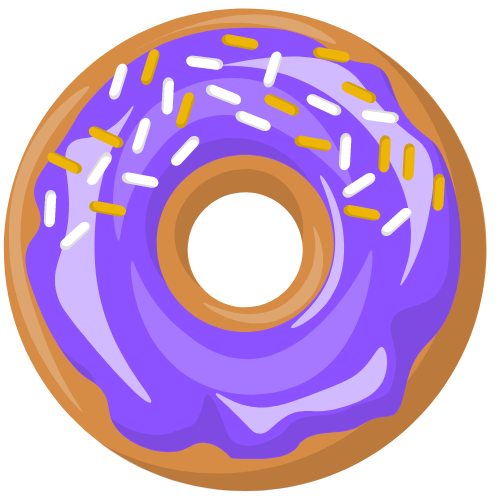
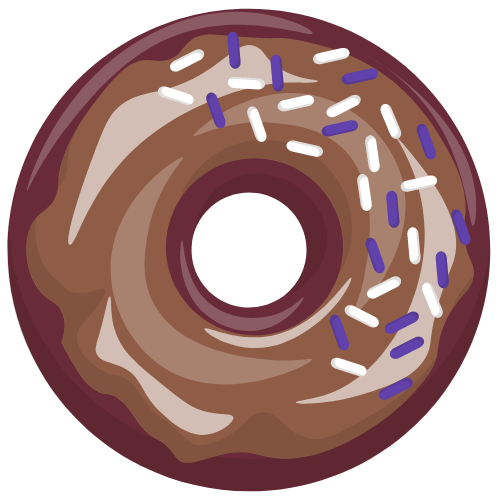
test new color palette

diff --git a/src/components/StampCard.jsx b/src/components/StampCard.jsx
@@ -89,30 +89,30 @@ const StampCard = () => {
     <div className="h-auto p-0 bg-transparent border-none row-1-card no-shadow">
       <div className="flex items-center justify-center w-full">
         <div className="relative w-full p-3 bg-center bg-cover rounded-md shadow-inner" style={{ backgroundImage: `url(/sprinkles-colorful-background.jpeg)` }}>
-          <div className="relative bg-white border-none rounded-md">
-            <h2 className="mt-0 mb-0 text-xl font-bold text-center text-gray-800">My Donuts</h2>
+          <div className="relative bg-white rounded-md">
+            <h2 className="mt-0 mb-0 text-2xl font-bold text-center text-pink">My Donuts</h2>
             <div className="absolute bottom-0 left-0 w-full h-1 bg-gray-200 rounded-b-md"></div>
           </div>
 
           <div className="grid grid-cols-6 grid-rows-2 gap-1 mx-auto mb-2 place-items-center">
             {stampedDonuts.map((iconNumber, index) => (
-              <div key={index} className="flex items-center justify-center m-1 bg-teal-200 rounded-lg shadow-md shadow-lg h-11 w-11 shadow-gray-500/50">
+              <div key={index} className="flex items-center justify-center m-1 rounded-lg shadow-md shadow-lg bg-md-pink h-11 w-11 shadow-gray-500/50">
                 <div className="flex items-center justify-center h-11 w-11">
                   <ColorDonutIcon number={iconNumber} />
                 </div>
               </div>
             ))}
             {emptyDonuts.map((iconNumber, index) => (
-              <div key={index} className="flex items-center justify-center bg-teal-100 rounded-lg shadow-md h-11 w-11">
+              <div key={index} className="flex items-center justify-center rounded-lg shadow-md bg-light-pink h-11 w-11">
                 <OutlineDonutIcon number={iconNumber} />
               </div>
             ))}
           </div>
           
-          <div className="relative mt-2 bg-white border-none rounded-md">
+          <div className="relative mt-2 bg-white rounded-md">
             <div className="absolute bottom-0 left-0 w-full h-1 bg-gray-300 rounded-b-md"></div>
           </div>
-          <p className="pt-2 text-sm italic text-center text-gray-700">Earn a donut for every opensource commit.</p>
+          <p className="pt-2 text-sm italic text-center text-blue">Earn a donut for every opensource commit.</p>
           <p className="p-1 text-xs italic text-center text-orange-600">12 donuts equals a donut box!</p>
         </div>
       </div>

diff --git a/src/components/DonutIcons.jsx b/src/components/DonutIcons.jsx
@@ -1,10 +1,10 @@
 import unstampedDonut from '../assets/donut-icons/outline/donut-unstamped.png';
-import creamDonut from '../assets/donut-icons/color/donut-cream.png';
-import peachDonut from '../assets/donut-icons/color/donut-peach.png';
-import pinkDonut from '../assets/donut-icons/color/donut-pink.png';
+import pinkDonut from '../assets/donut-icons/color/donut-light-pink.png';
+import blueDonut from '../assets/donut-icons/color/donut-blue.png';
+import whiteDonut from '../assets/donut-icons/color/donut-white.png';
+import purple1Donut from '../assets/donut-icons/color/donut-purple1.png';
 import purpleDonut from '../assets/donut-icons/color/donut-purple.png';
-import lightbrownDonut from '../assets/donut-icons/color/donut-lightbrown.png';
-import darkbrownDonut from '../assets/donut-icons/color/donut-darkbrown.png';
+import orangeDonut from '../assets/donut-icons/color/donut-orange.png';
 
 // greyed out donut components
 export const Outline1 = () => <img src={unstampedDonut} alt='outlined donut' />;
@@ -15,9 +15,9 @@ export const Outline5 = () => <img src={unstampedDonut} alt='outlined donut' />;
 export const Outline6 = () => <img src={unstampedDonut} alt='outlined donut' />;
 
 // color donut components
-export const Color1 = () => <img src={creamDonut} alt='color donut' />;
-export const Color2 = () => <img src={peachDonut} alt='color donut' />;
-export const Color3 = () => <img src={pinkDonut} alt='color donut' />;
+export const Color1 = () => <img src={pinkDonut} alt='color donut' />;
+export const Color2 = () => <img src={blueDonut} alt='color donut' />;
+export const Color3 = () => <img src={whiteDonut} alt='color donut' />;
 export const Color4 = () => <img src={purpleDonut} alt='color donut' />;
-export const Color5 = () => <img src={lightbrownDonut} alt='color donut' />;
-export const Color6 = () => <img src={darkbrownDonut} alt='color donut' />;
+export const Color5 = () => <img src={purple1Donut} alt='color donut' />;
+export const Color6 = () => <img src={orangeDonut} alt='color donut' />;

diff --git a/src/components/MyCommits.jsx b/src/components/MyCommits.jsx
@@ -12,24 +12,24 @@ const MyCommits = () => {
   const [error, setError] = useState(null);
 
   return (
-    <div className="mt-0 card-content">
-      <div className="flex items-center justify-between p-2 mt-0">
+    <div className="mt-0 ">
+      <div className="flex items-center justify-between p-2 mt-0 rounded-lg bg-pink">
         <div className="w-48 pb-2 mt-0 mr-2 bg-white rounded-lg h-54">
-          <h3 className="mb-0 text-lg font-bold text-center text-gray-800">Opensource Commits</h3>
+          <h3 className="mb-0 text-lg font-bold text-center text-blue">Opensource Commits</h3>
           <img src={octocatHoldingDonut} alt="Octocat holding donut" className="w-20 h-20 mx-auto mt-1" />
-          <p className="m-1 text-2xl font-bold text-center text-gray-800">{totalCommits}</p>
+          <p className="m-1 text-2xl font-bold text-center text-blue">{totalCommits}</p>
           {loading && <p>Loading contributions...</p>}
           {error && <p>{error}</p>}
-          <p className="px-1 text-xs text-center text-gray-800">
+          <p className="px-1 text-xs text-center text-blue">
             Since joining on _____
           </p>
         </div>
 
         <div className="w-48 bg-white rounded-lg h-54">
-          <h3 className="mt-2 mb-0 text-lg font-bold text-center text-gray-800">Donut Boxes</h3>
+          <h3 className="mt-2 mb-0 text-lg font-bold text-center text-blue">Donut Boxes</h3>
           <img src={donutBoxFull} alt="Donut box full" className="w-20 h-20 mx-auto mt-2" />
-          <p className="px-1 m-1 text-2xl font-bold text-center text-gray-800">{donutBoxes}</p>
-          <p className="px-2 mt-1 mb-2 text-xs text-center text-gray-800">
+          <p className="px-1 m-1 text-2xl font-bold text-center text-blue">{donutBoxes}</p>
+          <p className="px-2 mt-1 mb-2 text-xs text-center text-blue">
             Earn 12 donuts to add a donut box.
           </p>
         </div>

diff --git a/src/views/AboutUs.js b/src/views/AboutUs.js
@@ -32,7 +32,7 @@ const AboutUs = () => {
         <h1 className="mb-8 text-4xl font-bold">The Team</h1>
         <div className="grid grid-cols-1 gap-8 md:grid-cols-2 lg:grid-cols-3">
           {teamMembers.map((member, index) => (
-            <div key={index} className="p-6 rounded-lg shadow-lg bg-violet-950">
+            <div key={index} className="p-6 rounded-lg shadow-lg bg-purple">
               <div className="bg-grey-100">
                 <div className="mb-4">
                   <img
@@ -53,16 +53,16 @@ const AboutUs = () => {
                     href={member.linkedin}
                     target="_blank"
                     rel="noopener noreferrer"
-                    className="text-xl text-teal-500"
+                    className="text-xl text-white"
                   >
                     LinkedIn
                   </a>
-                  <span className="text-2xl text-gray-500">|</span>
+                  <span className="text-xl text-white">_</span>
                   <a
                     href={member.github}
                     target="_blank"
                     rel="noopener noreferrer"
-                    className="text-xl text-teal-500"
+                    className="text-xl text-white"
                   >
                     GitHub
                   </a>
@@ -80,7 +80,7 @@ const AboutUs = () => {
             href="https://github.com/Open-Source-Dashboard/osd-frontend"
             target="_blank"
             rel="noopener noreferrer"
-            className="inline-block p-4 text-yellow-500 "
+            className="inline-block p-4 text-pink "
           >
             <FaGithub className="w-6 h-6 sm:w-8 sm:h-8 md:w-10 md:h-10 lg:w-12 lg:h-12" />
           </a>

diff --git a/src/views/Feedback.js b/src/views/Feedback.js
@@ -65,7 +65,7 @@ const Feedback = () => {
                   id="name"
                   value={user.github_username}
                   readOnly
-                  className="w-full p-3 text-white rounded-lg shadow-lg bg-violet-950"
+                  className="w-full p-3 text-white rounded-lg shadow-lg bg-purple"
                   placeholder="Login to add your GitHub username here..."
                 />
               </div>
@@ -81,7 +81,7 @@ const Feedback = () => {
                   id="email"
                   value={email}
                   onChange={(e) => setEmail(e.target.value)}
-                  className="w-full p-3 text-white rounded-lg shadow-lg bg-violet-950"
+                  className="w-full p-3 text-white rounded-lg shadow-lg bg-purple"
                   placeholder="Your email..."
                 />
               </div>
@@ -95,7 +95,7 @@ const Feedback = () => {
                 <textarea
                   id="message"
                   rows="8"
-                  className="w-full p-3 text-white rounded-lg shadow-lg bg-violet-950"
+                  className="w-full p-3 text-white rounded-lg shadow-lg bg-purple"
                   placeholder="Your feedback..."
                   value={message}
                   onChange={(e) => setMessage(e.target.value)}
@@ -104,7 +104,7 @@ const Feedback = () => {
               </div>
               <button
                 type="submit"
-                className="w-1/3 p-3 text-xl text-white bg-teal-500 rounded-lg shadow-md hover:text-light-blue"
+                className="w-1/3 p-3 text-xl text-white rounded-lg shadow-md bg-blue hover:text-pink"
               >
                 Send Feedback
               </button>

diff --git a/src/views/Dashboard.js b/src/views/Dashboard.js
@@ -29,10 +29,10 @@ const Dashboard = () => {
         gridTemplateColumns: "repeat(18, 1fr)",
       }}
     >
-      <div className="col-span-12 row-span-1 px-2 rounded-lg">
+      <div className="col-span-12 row-span-1 px-2 mt-4 rounded-lg">
         <SubHeader />
       </div>
-      <div className="col-span-6 row-span-4 px-2 pt-0 mt-4 overflow-scroll rounded-lg bg-violet-950">
+      <div className="col-span-6 row-span-4 px-2 pt-0 mt-4 overflow-scroll rounded-lg bg-purple">
         <LatestContributors />
       </div>
 
@@ -40,7 +40,7 @@ const Dashboard = () => {
         <NavLeft />
       </div>
 
-      <div className="col-span-10 p-3 bg-gray-400 rounded-lg row-span-7 ">
+      <div className="col-span-10 p-3 border border-4 rounded-lg border-blue bg-purple row-span-7">
         <div className="grid h-full grid-cols-2 grid-rows-2 gap-2 ">
           <div className="col-span-1 row-span-1">
             <StampCard />
@@ -54,13 +54,13 @@ const Dashboard = () => {
           </div>
         </div>
       </div>
-      <div className="col-span-6 row-span-4 p-2 border-4 border-white rounded-lg bg-violet-950 ">
+      <div className="col-span-6 row-span-4 p-2 rounded-lg bg-purple ">
         <FeaturedProject />
       </div>
-      <div className="col-span-9 row-span-6 p-2 overflow-hidden rounded-lg bg-violet-950">
+      <div className="col-span-9 row-span-6 p-2 overflow-hidden rounded-lg bg-purple">
         <MapOfUsers />
       </div>
-      <div className="col-span-9 row-span-6 p-2 border-4 border-white rounded-lg bg-violet-950">
+      <div className="col-span-9 row-span-6 p-2 rounded-lg bg-purple">
         <PeruseProjects />
       </div>
     </div>

diff --git a/src/global.css b/src/global.css
@@ -11,7 +11,7 @@
     font-family: "Baloo 2", cursive;
   }
   .sub-header {
-    @apply mt-6 text-sm text-white;
+    @apply mt-5 text-sm text-white;
     font-family: "Baloo 2", cursive;
   }
   h2 {
@@ -23,7 +23,7 @@
     font-family: "Baloo 2", cursive;
   }
   a {
-    @apply text-white hover:text-light-blue;
+    @apply p-2 text-white rounded-md hover:text-pink bg-purple;
     transition: color 0.3s; 
   }
   button {
@@ -35,7 +35,7 @@
   textarea {
     @apply text-xl text-white;
     &:focus {
-      @apply ring-2 ring-purple-500;
+      @apply ring-2 ring-blue;
     }
   }
 
@@ -43,23 +43,8 @@
     box-shadow: none !important;
   }
 
-  .row-1-card {
-    @apply p-6 rounded-lg shadow-md bg-violet-950 shadow-gray-500/50;
-  }
-  .row-2-card {
-    @apply w-2/3 p-6 mx-auto rounded-lg shadow-md bg-violet-950 shadow-gray-500/50;
-  }
-  .row-3-card {
-    @apply p-6 rounded-lg shadow-md bg-violet-950 shadow-gray-500/50;
-  }
-  .card-content {
-    @apply rounded-lg;
-  }
-  .card-content-li {
-    @apply p-2 text-purple-500 bg-gray-100 rounded-lg shadow-md;
-  }
   .carousel-button {
-    @apply absolute p-1 m-2 transform -translate-y-1/2 rounded-full bg-violet-800 top-1/2;
+    @apply absolute p-1 m-2 transform -translate-y-1/2 rounded-full top-1/2;
   }
 }
 
@@ -74,11 +59,11 @@
 }
 
 .carousel-slide h1 {
-  @apply text-2xl font-bold text-purple-900;
+  @apply text-2xl font-bold text-purple;
 }
 
 .carousel-slide h3 {
-  @apply text-xl text-purple-900;
+  @apply text-xl text-purple;
 }
 
 .carousel-slide p {

diff --git a/src/components/PeruseProjects.jsx b/src/components/PeruseProjects.jsx
@@ -21,14 +21,14 @@ const PeruseProjects = () => {
   const currentRepos = popularRepos.slice(indexOfFirstRepo, indexOfLastRepo);
   
   return (
-    <div className="h-full overflow-scroll shadow-gray-500/50 bg-violet-950">
+    <div className="h-full overflow-scroll shadow-gray-500/50 bg-purple">
       <h2 className="mt-0 mb-2 text-xl font-bold">Peruse Projects</h2>
 
       {popularRepos.length > 0 ? (
         <div className="relative">
           <ul className="grid grid-cols-1 gap-3 sm:grid-cols-2 md:grid-cols-3">
             {currentRepos.map((repo) => (
-              <li key={repo.id} className='card-content-li'>
+              <li key={repo.id} className='p-2 rounded-lg shadow-md bg-orange'>
                 <div className="flex justify-center">
                   {repo.owner && repo.owner.avatar_url ? ( 
                     <img
@@ -49,7 +49,7 @@ const PeruseProjects = () => {
                     href={repo.html_url}
                     target="_blank"
                     rel="noreferrer"
-                    className="text-sm font-bold text-blue-600"
+                    className="text-sm font-bold "
                   >
                     {repo.name}
                   </a>

diff --git a/tailwind.config.js b/tailwind.config.js
@@ -11,14 +11,15 @@ module.exports = {
         sans: ['Roboto', 'sans-serif'], 
       },
       colors: {
-        'dark-purple': '#3f3cbb',
-        'deep-blue': '#252d47',
-        'vibrant-orange': '#ff9f00',
-        'light-blue': '#08d9ff',
+        'purple': '#872B97',
+        'blue': '#3F3CBB',
+        'orange': '#ff7130',
+        'pink': '#ff3c68',
+        'md-pink': '#ffc4d1',
+        'light-pink': '#ffebef',
       },
       backgroundImage: theme => ({
-        // 'custom-gradient': 'linear-gradient(to right, #4F2F8E, #02c1cb, #4F2F8E)',
-        'custom-gradient': 'linear-gradient(to right, #4F2F8E, #4F2F8E, #4F2F8E)',
+        'custom-gradient': 'linear-gradient(to right, #313131, #313131, #313131)',
       }),
       boxShadow: {
         'custom-light': '0 2px 5px rgba(255, 255, 255, 0.15)',

diff --git a/src/components/LatestContributors.jsx b/src/components/LatestContributors.jsx
@@ -5,13 +5,13 @@ const LatestContributors = () => {
   const { latestContributors } = useContext(RepoContext);
 
   return (
-    <div className="p-2 overflow-scroll">
+    <div className="p-2 overflow-scroll text-white">
       <h2 className="font-bold text-md">Latest Opensource Project Contributors</h2>
       {latestContributors.length > 0 && (
         latestContributors.map((contributor, idx) => (
           <div key={`contributor-${idx}`}>
             {contributor.author && contributor.repo_name && (
-              <p className="p-1 m-2 text-sm border border-white rounded-md">
+              <p className="p-1 m-2 text-sm text-white border border-white rounded-md">
                 {`🎉 ${contributor.author} just contributed to ${contributor.repo_name}`}
               </p>
             )}

diff --git a/src/components/FeaturedProject.jsx b/src/components/FeaturedProject.jsx
@@ -10,7 +10,7 @@ const FeaturedProject = () => {
       <h2 className="mt-0 mb-2 text-xl font-bold text-left">
         Featured Opensource Project
       </h2>
-      <div className="card-content bg-orange-300">
+      <div className="bg-orange-300 card-content">
         {featuredRepo.length > 0 ? (
           featuredRepo.map((repo) => (
             <div
@@ -36,7 +36,7 @@ const FeaturedProject = () => {
               <p className="text-sm text-gray-600">
                 ⭐ {repo.stargazers_count}
               </p>
-              <p className="text-purple-500">{repo.description}</p>
+              <p className="text-blue">{repo.description}</p>
               <p>
                 Topics:{" "}
                 {repo.topics.map((topic, index) => (

diff --git a/src/components/NavLeft.jsx b/src/components/NavLeft.jsx
@@ -23,7 +23,7 @@ const NavLeft = () => {
       ) : (
         <AuthButtons />
       )}
-      <div className="flex flex-col space-y-10 text-sm justify-left">
+      <div className="flex flex-col space-y-2 text-sm rounded-md justify-left">
         <a
           href={`https://github.com/${githubUsername}#js-contribution-activity`}
           target="_blank"
@@ -35,7 +35,7 @@ const NavLeft = () => {
           href="https://github.com/orgs/Open-Source-Dashboard/repositories"
           target="_blank"
           rel="noopener noreferrer"
-          className="flex items-center border-gray-300 rounded-md"
+          className="flex items-center rounded-md"
         >
           <span>Donut Dashboard Repo</span>
         </a>
